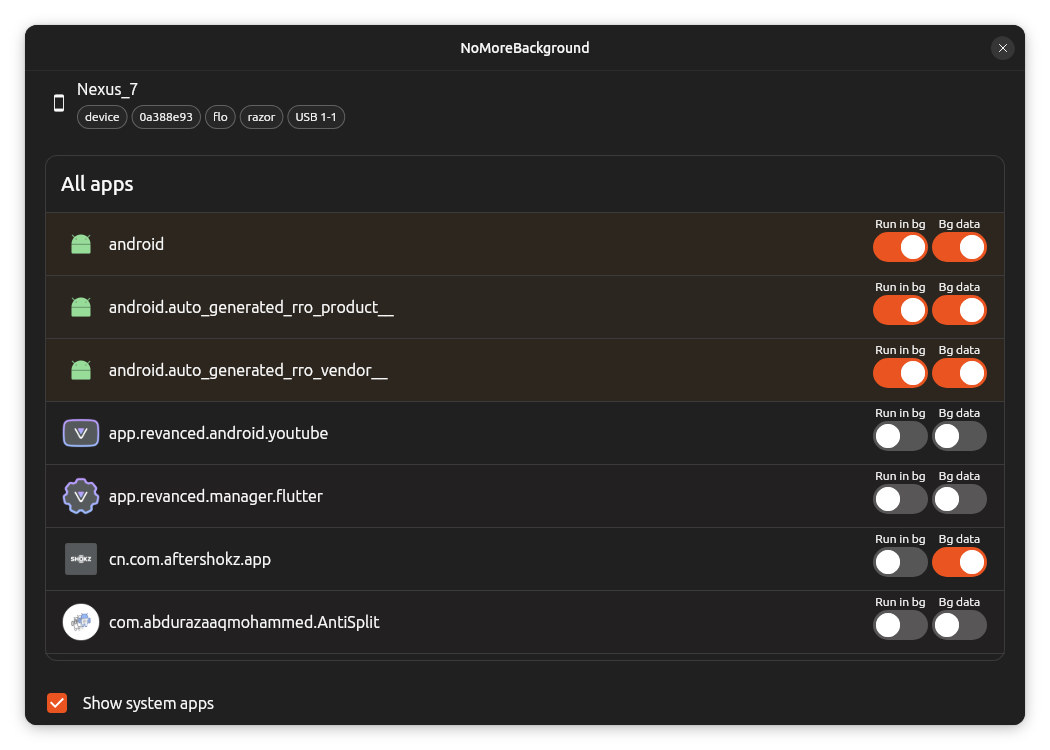
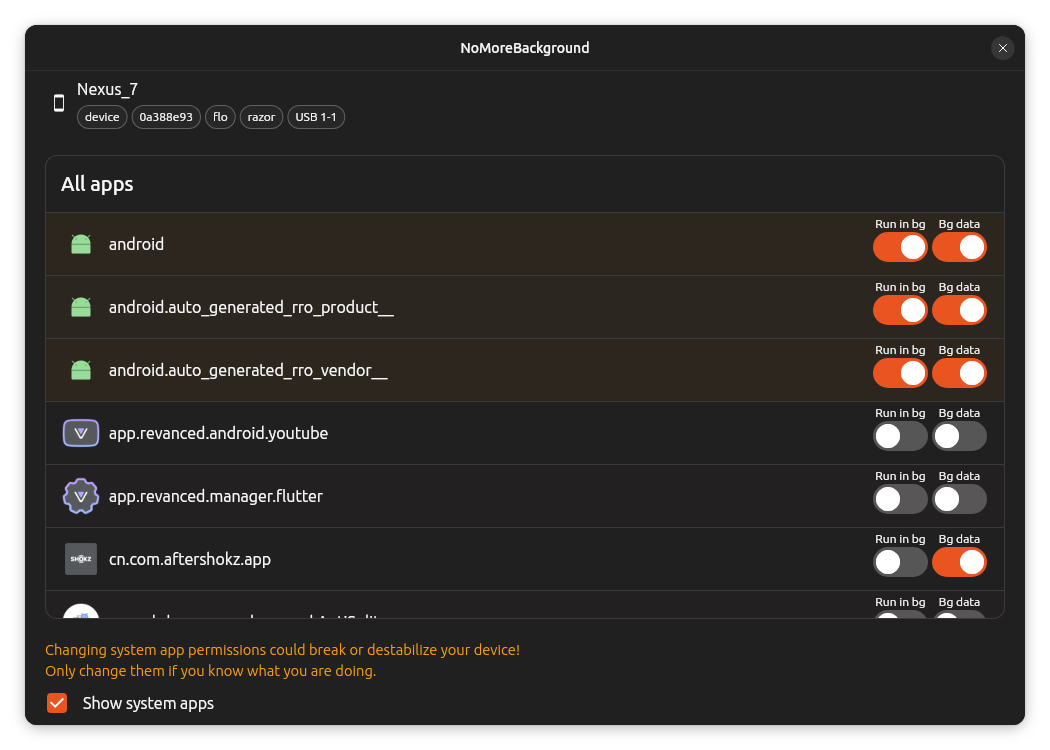
feat: add warning about messing with system apps

Changed region(s): [[0.0305, 0.7973, 0.5181, 0.92], [0.8229, 0.7973, 0.9448, 0.8587]]

diff --git a/lib/pages/apps_page.dart b/lib/pages/apps_page.dart
@@ -84,6 +84,7 @@ class AppsPageState extends State<AppsPage> {
         title: DeviceTile(device: widget.device),
       ),
       body: Column(
+        crossAxisAlignment: .stretch,
         children: [
           Expanded(
             child: Padding(
@@ -120,6 +121,15 @@ class AppsPageState extends State<AppsPage> {
               ),
             ),
           ),
+          if (showSystemApps)
+            Padding(
+              padding: const .symmetric(horizontal: kYaruPagePadding),
+              child: Text(
+                'Changing system app permissions could break or destabilize your device!\n'
+                'Only change them if you know what you are doing.',
+                style: TextStyle(color: ColorScheme.of(context).warning),
+              ),
+            ),
           YaruCheckboxListTile(
             value: showSystemApps,
             onChanged: (value) {
